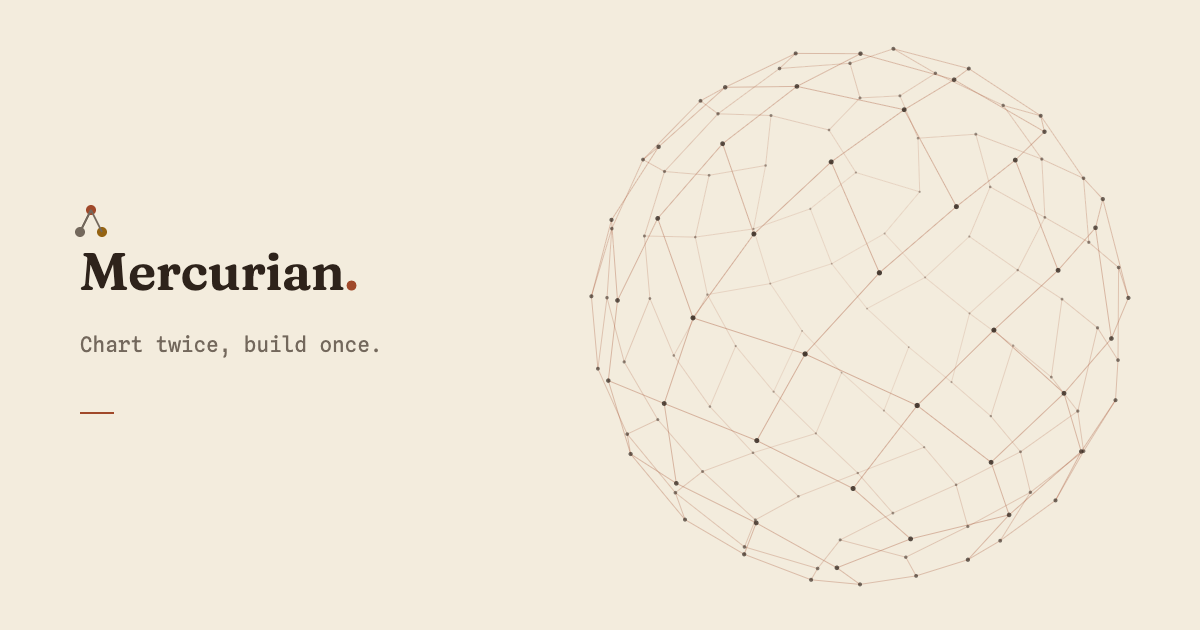
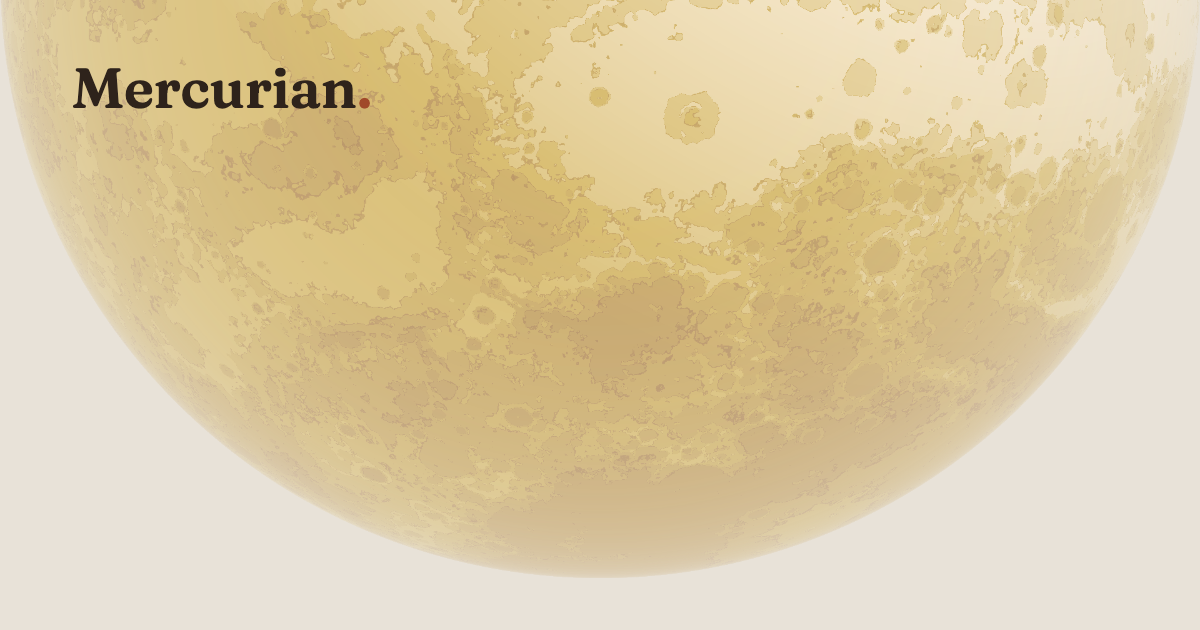
The door refined: the shipped card, OpenCode in the picker, an honest opening, a steady page (M-201) (#100)
* The card that actually shipped: the golden globe replaces the constellation (M-201)

The link card becomes the prototype's mercurian-og-globe.png — the
wordmark over the full-bleed golden Mercury globe, no tagline to drift —
from its iMessage-tuned social-preview commit, whose site_name and
image:type meta come along.

* OpenCode joins the demo's picker (M-201)

The hero composer's model picker gains a third fixture provider —
OpenCode, with its provider/model-slugged entries — matching the
product's wider provider support.

Implemented by GPT-5.6 Sol via Codex CLI, directed and reviewed by Claude.

* The opening reply completes its own checkpoint (M-201)

The demo's opening beat was landing as a bare assistant checkpoint — a
shape the product never produces. The fixture gains the human ask the
stream answers ('Fold the fixture approach into the plan.'), the reply
lands inside that same checkpoint, and the landed copy speaks in the
done tense.

Implemented by GPT-5.6 Sol via Codex CLI, directed and reviewed by Claude.

* The window guards the page's scroll (M-201)

PlanTimeline's scrollIntoView assumes the product's pinned viewport; on
the scrolling landing page it yanked the document whenever a reply
landed. The island now records the document scroll position before each
commit's effects and restores it after them — children keep their own
pane scrolling, the page never moves.

Implemented by GPT-5.6 Sol via Codex CLI, directed and reviewed by Claude.

---------

diff --git a/apps/landing/src/islands/HeroDesk.tsx b/apps/landing/src/islands/HeroDesk.tsx
@@ -134,10 +134,15 @@ const history = timeline(
     authorKind: "assistant",
     text: "The workflow path now includes deployment in the first milestone.",
   }),
+  message("workflow-tangent-fold-ask", {
+    sequence: 21,
+    parents: ["workflow-tangent-response"],
+    text: "Fold the fixture approach into the plan.",
+  }),
 );
 
-const tip = history[19]!.commitId;
-const balancedAnchor = history[13]!.commitId;
+const openingAskCommitId = commitId("workflow-tangent-fold-ask");
+const tip = openingAskCommitId;
 const heroPlanId = "marketing-site-hero" as ComponentProps<typeof PlanArtifact>["planId"];
 type HeroInFlight = NonNullable<ComponentProps<typeof PlanTimeline>["inFlight"]>;
 type HeroComposerProps = ComponentProps<typeof PlanComposer>;
@@ -159,6 +164,7 @@ const DEFAULT_RIGHT_PANE: RightPaneState = {
 
 const claudeDriver = "claudeAgent" as HeroProvider;
 const codexDriver = "codex" as HeroProvider;
+const opencodeDriver = "opencode" as HeroProvider;
 const heroProviders = [
   {
     instanceId: "claudeAgent" as HeroProviderSnapshot["instanceId"],
@@ -194,6 +200,34 @@ const heroProviders = [
     slashCommands: [],
     skills: [],
   },
+  {
+    instanceId: "opencode" as HeroProviderSnapshot["instanceId"],
+    driver: opencodeDriver,
+    displayName: "OpenCode",
+    enabled: true,
+    installed: true,
+    version: "1.0.0",
+    status: "ready",
+    auth: { status: "authenticated" },
+    checkedAt: "2026-08-30T00:00:00.000Z",
+    models: [
+      {
+        slug: "openai/gpt-5",
+        name: "GPT-5",
+        isCustom: false,
+        isDefault: true,
+        capabilities: null,
+      },
+      {
+        slug: "anthropic/claude-opus-5",
+        name: "Claude Opus 5",
+        isCustom: false,
+        capabilities: null,
+      },
+    ],
+    slashCommands: [],
+    skills: [],
+  },
 ] satisfies ReadonlyArray<HeroProviderSnapshot>;
 
 const DEFAULT_MODEL_SELECTION = {
@@ -203,14 +237,17 @@ const DEFAULT_MODEL_SELECTION = {
 
 const INITIAL_POSITION = {
   _tag: "at",
-  commitId: balancedAnchor,
+  commitId: openingAskCommitId,
   live: true,
 } satisfies PlanPosition;
 
+const OPENING_STREAMING_TEXT = "I'm folding the fixture approach into the plan now.";
+const OPENING_LANDED_TEXT = "The fixture approach is folded into the plan.";
+
 const INITIAL_IN_FLIGHT = {
   turnId: "hero-opening-turn" as HeroInFlight["turnId"],
-  parentCommitId: balancedAnchor,
-  text: "I'm folding the fixture approach into the plan now.",
+  parentCommitId: openingAskCommitId,
+  text: OPENING_STREAMING_TEXT,
   grounding: [{ kind: "search", label: "fixture-only demo" }],
 } satisfies HeroInFlight;
 
@@ -366,6 +403,7 @@ export default function HeroDesk() {
 }
 
 function HeroWindowInterior() {
+  const documentScrollPosition = useRef({ x: 0, y: 0 });
   const [composerText, setComposerText] = useState("");
   const [pane, setPane] = useState<RightPaneState>(DEFAULT_RIGHT_PANE);
   const [timelineExtensions, setTimelineExtensions] = useState<
@@ -380,6 +418,19 @@ function HeroWindowInterior() {
   const graph = useMemo(() => buildPlanGraph(heroTimeline), [heroTimeline]);
   const head = resolveHead(graph, position);
   const headRef = useRef(head);
+
+  // Product components assume a pinned viewport; the landing page scrolls, so
+  // neutralize document scrolling caused by effects inside this island.
+  useLayoutEffect(() => {
+    documentScrollPosition.current = { x: window.scrollX, y: window.scrollY };
+  });
+  useEffect(() => {
+    const saved = documentScrollPosition.current;
+    if (window.scrollX !== saved.x || window.scrollY !== saved.y) {
+      window.scrollTo(saved.x, saved.y);
+    }
+  });
+
   useLayoutEffect(() => {
     headRef.current = head;
   }, [head]);
@@ -491,9 +542,9 @@ function HeroWindowInterior() {
         ...current,
         message(OPENING_REPLY_NAME, {
           sequence: history.length + current.length + 1,
-          parents: [balancedAnchor],
+          parents: [openingAskCommitId],
           authorKind: "assistant",
-          text: INITIAL_IN_FLIGHT.text,
+          text: OPENING_LANDED_TEXT,
         }),
       ]);
       setPosition((current) => {
